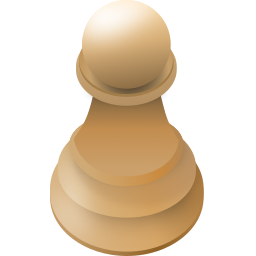
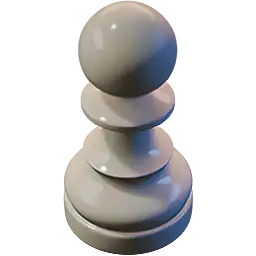
percobaan wood

diff --git a/components/3d-board/3DBoardWoodNew.tsx b/components/3d-board/3DBoardWoodNew.tsx
@@ -127,7 +127,7 @@ const BoardWood: React.FC<BoardWoodBoardProps> = ({
           }}
         >
           <img
-            src={`/3d-pieces/${piece}.webp`}
+            src={`/3d-wood-pieces/${piece}.webp`}
             width={squareWidth * pieceHeight}
             height={squareWidth}
             style={{
@@ -144,9 +144,9 @@ const BoardWood: React.FC<BoardWoodBoardProps> = ({
   // Frame dimensions 
 
   return (
-    <div className="relative w-[390px] h-[390px] sm:w-[500px] sm:h-[500px] p-6 flex items-center justify-center">
+    <div className="-mt-12 relative w-[390px] h-[390px] sm:w-[500px] sm:h-[500px] p-6 flex items-center justify-center">
       <Image
-        src="/3d-wood-pieces/habi.png"
+        src="/3d-wood-pieces/board-new.png"
         alt="Chess board frame"
         width={1000}
         height={1000}
@@ -159,13 +159,13 @@ const BoardWood: React.FC<BoardWoodBoardProps> = ({
         }}
       />
       <div
-        className={`absolute left-[69px] sm:left-[81px] top-[47px] sm:top-[53px]`}
+        className={`absolute left-[65px] top-[45px] sm:left-[79px] sm:top-[50px]`}
       >
         <Chessboard
           arePiecesDraggable={false}
-          boardWidth={window.innerWidth > 425 ? 334 : 250}
+          boardWidth={window.innerWidth > 425 ? 339 : 257}
           id="Styled3DBoard"
-          // position={position}
+          position={position}
           customBoardStyle={{
             transform: "rotateX(27.5deg)",
             transformOrigin: "center",
@@ -173,12 +173,12 @@ const BoardWood: React.FC<BoardWoodBoardProps> = ({
           }}
           customPieces={threeDPieces}
           customLightSquareStyle={{
-            // backgroundColor: "transparent",
-            backgroundColor: "#ff000080",
+            backgroundColor: "transparent",
+            // backgroundColor: "#ff000080",
           }}
           customDarkSquareStyle={{
-            // backgroundColor: "transparent",
-            backgroundColor: "#0000ff80",
+            backgroundColor: "transparent",
+            // backgroundColor: "#0000ff80",
           }}
           animationDuration={100}
         />

diff --git a/components/analysis-loading/LoadingChess.tsx b/components/analysis-loading/LoadingChess.tsx
@@ -263,17 +263,17 @@ const PgnPlayer: React.FC = () => {
 
   return (
     <div className="space-y-4">
-      <div className="flex flex-row mx-auto mb-12">
+      <div className="flex flex-row mx-auto mb-2">
         <BoardWoodNew size={null} position={game.fen()} boardOrientation={boardOrientation} />
         {/* <BoardWood size={null} position={game.fen()} boardOrientation={boardOrientation} /> */}
       </div>
 
-      <div className="">
+      {/* <div className="">
         <p className="text-sm md:text-md text-center">
           Move: {currentMoveIndex} / {moveHistory.length}
         </p>
-        {/* {error && <p className="text-red-500 mt-2">{error}</p>} */}
-      </div>
+        {error && <p className="text-red-500 mt-2">{error}</p>}
+      </div> */}
     </div>
   );
 };
